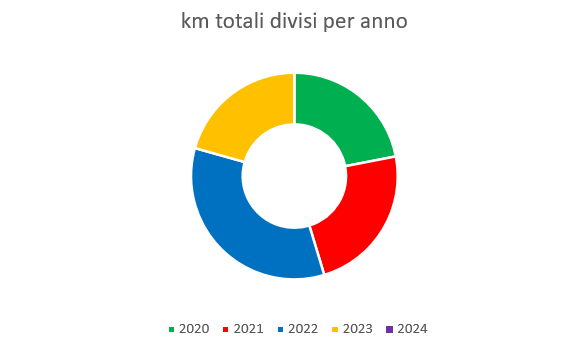
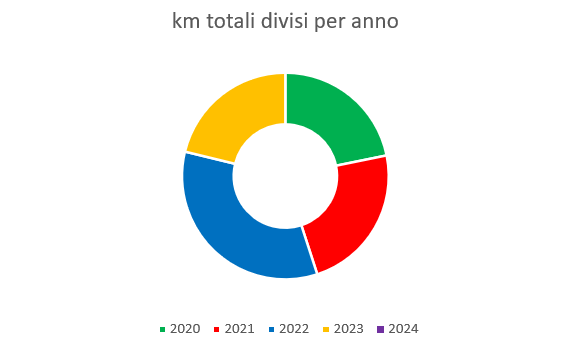
Add files via upload

diff --git a/Statistiche/Statistiche2023.html b/Statistiche/Statistiche2023.html
@@ -47,55 +47,55 @@
         <tr>
             <td>Gennaio</td>
             <td>127</td>
-            <td>5,50%</td>
+            <td>5,32%</td>
         </tr>
 
         <tr>
             <td>Febbraio</td>
             <td>148</td>
-            <td>6,41%</td>
+            <td>6,20%</td>
         </tr>
 
         <tr>
             <td>Marzo</td>
             <td>194</td>
-            <td>8,41%</td>
+            <td>8,12%</td>
         </tr>
 
         <tr>
             <td>Aprile</td>
             <td>103</td>
-            <td>4,46%</td>
+            <td>4,31%</td>
         </tr>
 
         <tr>
             <td>Maggio</td>
             <td>242</td>
-            <td>10,49%</td>
+            <td>10,13%</td>
         </tr>
 
         <tr>
             <td>Giugno</td>
             <td>265</td>
-            <td>11,489%</td>
+            <td>11,10%</td>
         </tr>
 
         <tr>
             <td>Luglio</td>
             <td>422</td>
-            <td>18,28%</td>
+            <td>17,67%</td>
         </tr>
 
         <tr>
             <td>Agosto</td>
             <td>426</td>
-            <td>18,46%</td>
+            <td>17,84%</td>
         </tr>
 
         <tr>
             <td>Settembre</td>
-            <td>381</td>
-            <td>16,51%</td>
+            <td>461</td>
+            <td>19,30%</td>
         </tr>
 
     </table>
@@ -106,10 +106,10 @@
 
     <br>
     <div class="colore">
-        <p>totale km 2.308
+        <p>totale km 2.388
             <img src="../Icone/traguardo.png">
         </p>
-        <p>km medi percorsi 60,74 km </p>
+        <p>km medi percorsi 61,23 km </p>
     </div>
     <br>
 

diff --git a/Statistiche.html b/Statistiche.html
@@ -83,7 +83,7 @@
             </td>
 
             <td>
-                22,00%
+                21,80%
             </td>
 
         </tr>
@@ -99,7 +99,7 @@
             </td>
 
             <td>
-                23,40%
+                23,20%
             </td>
         </tr>
 
@@ -113,7 +113,7 @@
             </td>
 
             <td>
-                34,00%
+                33,8%
             </td>
 
         </tr>
@@ -124,11 +124,11 @@
             </td>
 
             <td>
-                2.308
+                2.388
             </td>
 
             <td>
-                20,60%
+                21,20%
             </td>
 
         </tr>
@@ -158,11 +158,11 @@
 
     <div class="colore">
         <p>
-            totale km fatti 11.186
+            totale km fatti 11.266
             <img src="Icone/traguardo.png">
         </p>
 
-        <p>km medi percorsi 69,05 km </p>
+        <p>km medi percorsi 69,12 km </p>
 
     </div>
 

diff --git a/Estate/Estate2023.html b/Estate/Estate2023.html
@@ -245,6 +245,16 @@
             <td>km</td>
         </tr>
 
+        <tr>
+            <td>18 settembre</td>
+            <td>21</td>
+            <td><a
+                    href="https://www.komoot.com/it-it/tour/1314529936?ref=wtd&share_token=ag7w4nottQnddy4mtkZK6gMgzkqRq8yBXdhOUB5cSKw8kmKos1">
+                    Rodeano + Ariis </a></td>
+            <td>80</td>
+            <td>km</td>
+        </tr>
+
     </table>
 
     <br>
@@ -253,10 +263,10 @@
     <br>
 
     <div class="colore">
-        <p> totale km 1.291
+        <p> totale km 1.371
             <img src="../Icone/traguardo.png">
         </p>
-        <p>km medi percorsi 64,55
+        <p>km medi percorsi 65,29
         </p>
     </div>
 </body>

diff --git a/Giri.html b/Giri.html
@@ -242,11 +242,11 @@
     <br>
     <div class="colore">
         <p>
-            totale km fatti 11.186
+            totale km fatti 11.266
             <img src="Icone/traguardo.png">
         </p>
 
-        <p>km medi percorsi 69,05 km </p>
+        <p>km medi percorsi 69,12 km </p>
 
     </div>
 

diff --git a/Estate.html b/Estate.html
@@ -104,7 +104,7 @@
                 </td>
     
                 <td>
-                    1.291
+                    1.371
                 </td>
             </tr>
 
